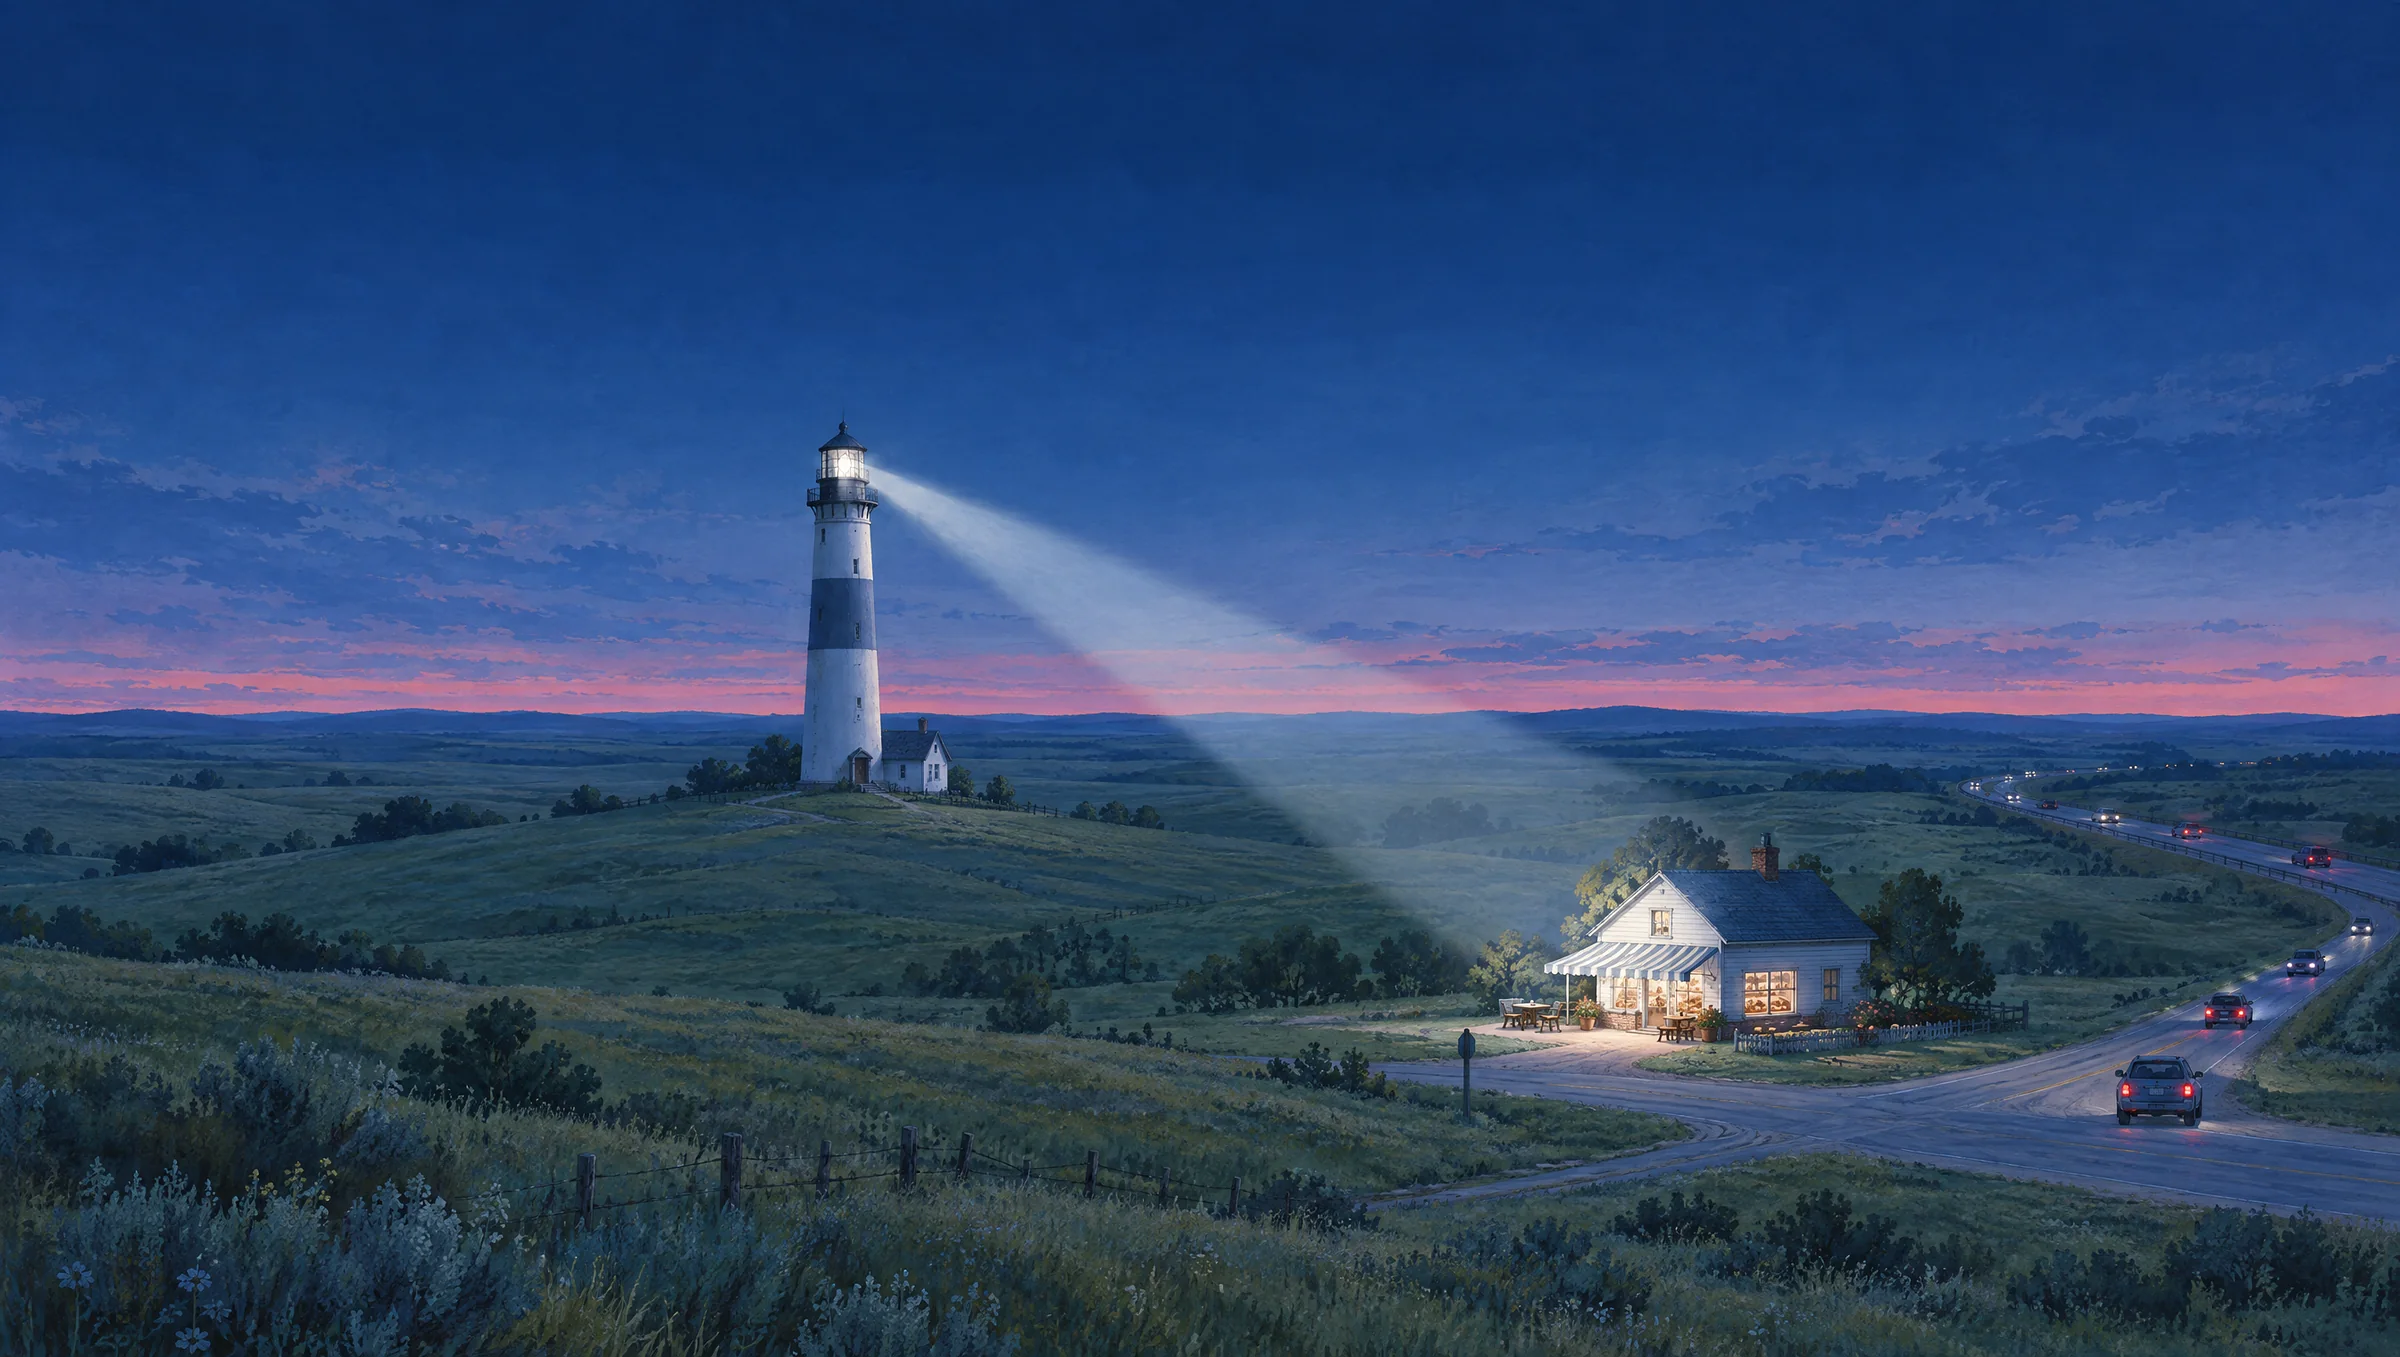
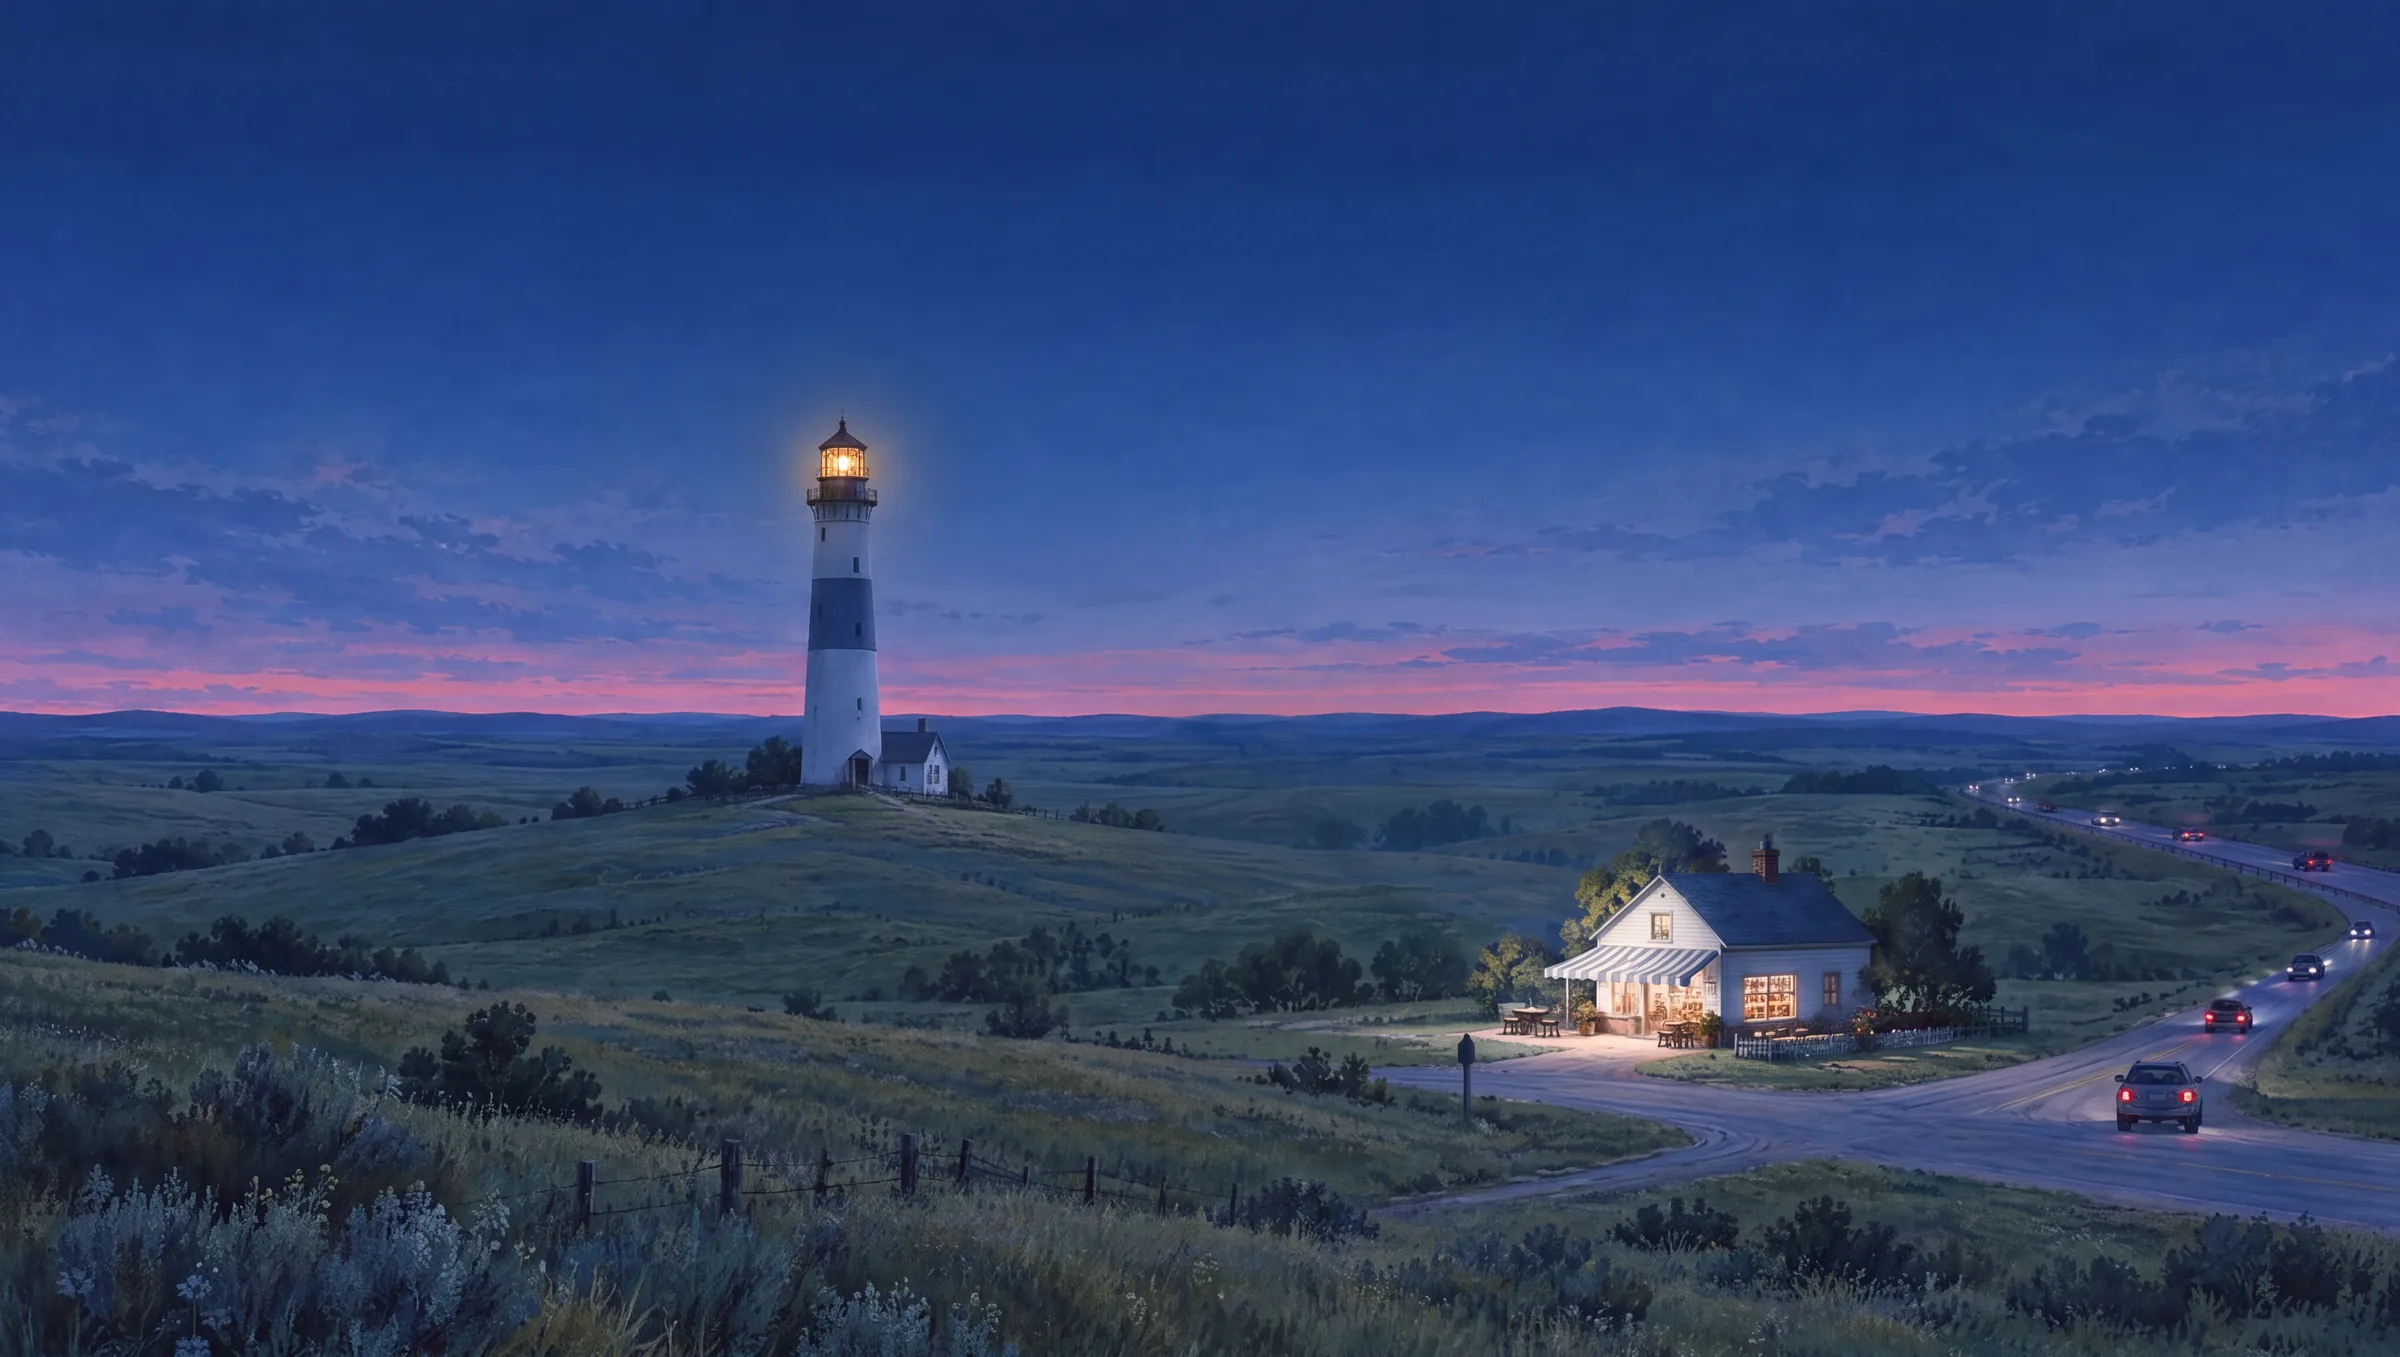
Echo hero: the lighthouse keeps turning
The painted beam is gone from the painting (Nano Banana Pro repaint); s/echo-beam.js draws
two back-to-back beams on a 14s turn: each sweeps the fields, swings toward you with a
flash at the lamp and floods the foreground, then fades behind the tower; each pass over
the shop washes its front bright. The free-audit page shares the painting, so it loads the
same script but holds one quiet still beam on the shop (lamp sits behind its checklist).
Reduced motion: the same still beam. Wired through products_v3_more.py extra_js.

diff --git a/s/echo-beam.js b/s/echo-beam.js
@@ -1,0 +1,130 @@
+/* Echo hero: the lighthouse keeps turning.
+   - Two beams back to back, like a real rotating lens seen from the side: each sweeps out across
+     the fields to the right, swings toward you (shortening, widening, flooding the foreground, a
+     flash at the lamp when it faces you), carries on to the left and fades behind the tower.
+     One turn every 14 seconds, so a beam comes round every 7.
+   - Where the beam meets the land it leaves a soft pool of light, and each time it passes the
+     shop the shop is found: its front washes bright for a moment.
+   - The painting has no beam of its own; these are the only ones. Positions are fractions of the
+     painting, mapped through object-fit:cover exactly as hero.js maps its glows.
+   Reduced motion, and the free-audit page: one still beam resting on the shop, as the old painting had it. */
+(function () {
+  var hero = document.querySelector(".phero");
+  var img = hero && hero.querySelector(".art img");
+  if (!img || !window.requestAnimationFrame) return;
+  var reduce = window.matchMedia && matchMedia("(prefers-reduced-motion: reduce)").matches;
+  // the free-audit page borrows this painting, but its lamp sits behind the checklist above the form:
+  // there the beam holds still, so nothing moves behind text people are reading
+  var quiet = hero.classList.contains("skin-hero");
+  if (quiet) reduce = true;
+
+  var LAMP = [.352, .338], SHOP = [.718, .676], HORIZON = .522, PERIOD = 14;
+  var parent = hero.querySelector(".hero-fx") || hero;
+  var cv = document.createElement("canvas");
+  cv.className = "beam"; cv.setAttribute("aria-hidden", "true");
+  cv.style.cssText = "position:absolute;inset:0;width:100%;height:100%;pointer-events:none;z-index:1";
+  parent.appendChild(cv);
+  var ctx = cv.getContext("2d");
+
+  var W = 0, H = 0, dpr = 1, dw = 1, dh = 1, ox = 0, oy = 0;
+  function layout() {
+    W = hero.clientWidth; H = hero.clientHeight;
+    dpr = Math.min(2, window.devicePixelRatio || 1);
+    cv.width = Math.round(W * dpr); cv.height = Math.round(H * dpr);
+    var nw = img.naturalWidth || 3840, nh = img.naturalHeight || 2171;
+    var s = Math.max(W / nw, H / nh); dw = nw * s; dh = nh * s;
+    var pos = getComputedStyle(img).objectPosition.split(" ");
+    var px = parseFloat(pos[0]) / 100, py = parseFloat(pos[1] || "50") / 100;
+    if (isNaN(px)) px = .5; if (isNaN(py)) py = .5;
+    ox = (W - dw) * px; oy = (H - dh) * py;
+    if (reduce) draw(.45, 0);
+  }
+  function X(f) { return ox + f * dw; }
+  function Y(f) { return oy + f * dh; }
+
+  // one soft cone from (x,y) to (ex,ey): root half-width r0, end half-width r1, alpha a at the lamp
+  function cone(x, y, ex, ey, r0, r1, a) {
+    var dx = ex - x, dy = ey - y, L = Math.hypot(dx, dy) || 1, nx = -dy / L, ny = dx / L;
+    var g = ctx.createLinearGradient(x, y, ex, ey);
+    g.addColorStop(0, "rgba(226,236,255," + a.toFixed(3) + ")");
+    g.addColorStop(.45, "rgba(214,228,255," + (a * .5).toFixed(3) + ")");
+    g.addColorStop(1, "rgba(206,222,255,0)");
+    ctx.fillStyle = g;
+    ctx.beginPath();
+    ctx.moveTo(x + nx * r0, y + ny * r0); ctx.lineTo(ex + nx * r1, ey + ny * r1);
+    ctx.lineTo(ex - nx * r1, ey - ny * r1); ctx.lineTo(x - nx * r0, y - ny * r0);
+    ctx.closePath(); ctx.fill();
+  }
+  function blob(x, y, rx, ry, rgb, a) {
+    if (a <= .003) return;
+    ctx.save(); ctx.translate(x, y); ctx.scale(1, ry / rx);
+    var g = ctx.createRadialGradient(0, 0, 0, 0, 0, rx);
+    g.addColorStop(0, "rgba(" + rgb + "," + a.toFixed(3) + ")");
+    g.addColorStop(.4, "rgba(" + rgb + "," + (a * .35).toFixed(3) + ")");
+    g.addColorStop(1, "rgba(" + rgb + ",0)");
+    ctx.fillStyle = g; ctx.beginPath(); ctx.arc(0, 0, rx, 0, 6.2832); ctx.fill(); ctx.restore();
+  }
+
+  var found = 0;
+  // one beam's geometry: far end on screen, strength, end width, and whether it is on the shop.
+  // Sideways it reaches across the fields; turned toward you it drops into the foreground;
+  // turned away it shrinks to almost nothing behind the lamp.
+  function beam(th, lx, ly) {
+    var c = Math.cos(th), s = Math.sin(th), front = Math.max(0, s);
+    var ex = lx + c * .52 * dw, ey = ly + (.15 + .23 * s) * dw;
+    var I = s >= 0 ? .55 + .45 * Math.pow(s, .8) : .55 * (1 + s * .85);
+    I *= .96 + .04 * Math.sin(th * 23); // a little haze shimmer
+    var r1 = (.042 + .07 * front) * dw;
+    var sx = X(SHOP[0]), sy = Y(SHOP[1]);
+    var aB = Math.atan2(ey - ly, ex - lx), aS = Math.atan2(sy - ly, sx - lx);
+    var lenB = Math.hypot(ex - lx, ey - ly), lenS = Math.hypot(sx - lx, sy - ly);
+    var half = Math.atan2(r1, lenB) * 1.15, d = Math.abs(Math.atan2(Math.sin(aB - aS), Math.cos(aB - aS)));
+    return { ex: ex, ey: ey, I: I, r1: r1, front: front, hit: d < half && lenB > lenS * .9 ? 1 - d / half : 0 };
+  }
+  function draw(th, dt) {
+    ctx.setTransform(dpr, 0, 0, dpr, 0, 0);
+    ctx.clearRect(0, 0, W, H);
+    ctx.globalCompositeOperation = "lighter";
+    var lx = X(LAMP[0]), ly = Y(LAMP[1]), hy = Y(HORIZON);
+    // two lenses back to back, like most real lights: one beam is always on its way round to you
+    var bs = [beam(th, lx, ly), beam(th + Math.PI, lx, ly)], hit = 0, f = 0;
+    bs.forEach(function (b) {
+      if (quiet) b.I *= .55;
+      cone(lx, ly, b.ex, b.ey, .007 * dw, b.r1, .3 * b.I);
+      cone(lx, ly, b.ex, b.ey, .004 * dw, b.r1 * .55, .34 * b.I);
+      cone(lx, ly, b.ex, b.ey, .002 * dw, b.r1 * .22, .4 * b.I);
+      if (b.ey > hy) blob(b.ex, b.ey, b.r1 * 1.5, b.r1 * .5, "214,228,255", .3 * b.I * Math.min(1, (b.ey - hy) / (.04 * dw)));
+      hit = Math.max(hit, b.hit); f = Math.max(f, Math.pow(b.front, 14));
+    });
+    // the shop is found when a beam passes over it
+    var sx = X(SHOP[0]), sy = Y(SHOP[1]);
+    found = dt ? found + (hit - found) * Math.min(1, dt * (hit > found ? 9 : 1.4)) : hit;
+    blob(sx, sy, .1 * dw, .06 * dw, "255,236,205", .55 * found);
+    blob(sx, sy + .012 * dw, .06 * dw, .022 * dw, "255,226,180", .4 * found);
+    // the lamp: always lit, and a flash when a beam faces you
+    if (quiet) { ctx.globalCompositeOperation = "source-over"; return; } // the painted lamp glows on its own
+    blob(lx, ly, .02 * dw, .02 * dw, "255,244,226", .8);
+    blob(lx, ly, (.05 + .18 * f) * dw, (.05 + .18 * f) * dw, "230,238,255", .16 + .6 * f);
+    if (f > .01) { ctx.fillStyle = "rgba(200,215,255," + (.08 * f).toFixed(3) + ")"; ctx.fillRect(0, 0, W, H); }
+    ctx.globalCompositeOperation = "source-over";
+  }
+
+  function start() {
+    layout();
+    window.addEventListener("resize", layout);
+    if (reduce) return;
+    var t0 = performance.now(), last = 0, visible = true, running = false;
+    function frame(now) {
+      if (!visible || document.hidden) { running = false; return; }
+      var dt = last ? Math.min(.05, (now - last) / 1000) : 0; last = now;
+      // starts just before the shop, so the first thing a visitor sees is the light finding it
+      draw(.2 + (now - t0) / 1000 / PERIOD * 6.2832, dt);
+      requestAnimationFrame(frame);
+    }
+    function go() { if (!running) { running = true; last = 0; requestAnimationFrame(frame); } }
+    if ("IntersectionObserver" in window) new IntersectionObserver(function (es) { visible = es[0].isIntersecting; if (visible) go(); }).observe(hero);
+    document.addEventListener("visibilitychange", function () { if (!document.hidden) go(); });
+    go();
+  }
+  if (img.complete && img.naturalWidth) start(); else img.addEventListener("load", start);
+})();

diff --git a/audit/index.html b/audit/index.html
@@ -177,6 +177,6 @@
 })();
 </script>
 <script>window.STATION_CATALOG=[{"k": "greet", "n": "Greet", "sub": "Website chat assistant", "pricelab": "$79 /mo", "ttl": "Live in minutes", "mo": 79, "once": 0, "link": "https://buy.stripe.com/5kQbIU1Gs6cpeIN5ZC2Fa0Z", "img": "/media/v5/greet.jpg", "price_id": "price_1TzVcd4Y7C8no2ikRlFIdU8q"}, {"k": "slate", "n": "Slate", "sub": "Booking calendar & reminders", "pricelab": "$59 /mo", "ttl": "Live today", "mo": 59, "once": 0, "link": "https://buy.stripe.com/8x25kw5WI0S5305ds42Fa1v", "img": "/media/v5/slate.jpg", "price_id": "price_1UGUkq4Y7C8no2ik33SCikR9"}, {"k": "lineback", "n": "Lineback", "sub": "Missed-call text-back", "pricelab": "$197 /mo", "ttl": "Live in ~2 business days", "mo": 197, "once": 0, "link": "https://buy.stripe.com/4gMcMYcl630d1W15ZC2Fa14", "img": "/media/v5/lineback.jpg", "price_id": "price_1TzVcf4Y7C8no2ikSQwPLLHG"}, {"k": "frontdesk", "n": "Frontdesk", "sub": "AI phone receptionist", "pricelab": "$397 /mo", "ttl": "Live same day", "mo": 397, "once": 0, "link": "https://buy.stripe.com/eVqeV6cl6cAN7glfAc2Fa16", "img": "/media/v5/frontdesk.jpg", "price_id": "price_1TzVcg4Y7C8no2iknK94keOq"}, {"k": "pursuit", "n": "Pursuit", "sub": "Automatic follow-up", "pricelab": "$247 /mo", "ttl": "Live instantly", "mo": 247, "once": 0, "link": "https://buy.stripe.com/3cI5kw70M1W96chfAc2Fa19", "img": "/media/v5/pursuit.jpg", "price_id": "price_1TzVci4Y7C8no2ikGmZ0IJA0"}, {"k": "repute", "n": "Repute", "sub": "Review engine", "pricelab": "$197 /mo", "ttl": "Live same day", "mo": 197, "once": 0, "link": "https://buy.stripe.com/fZufZa70M6cpeINds42Fa1b", "img": "/media/v5/repute.jpg", "price_id": "price_1TzVcj4Y7C8no2ikEe64LSwt"}, {"k": "map", "n": "Echo", "sub": "Google profile, managed", "pricelab": "$247 /mo", "ttl": "Live in 2\u20133 days", "mo": 247, "once": 0, "link": "", "img": "/media/v5/map.jpg", "price_id": "price_1UGUko4Y7C8no2ikuq62n9On"}, {"k": "dispatch", "n": "Dispatch", "sub": "Email campaigns", "pricelab": "$94 /mo", "ttl": "Live instantly", "mo": 94, "once": 0, "link": "https://buy.stripe.com/8x2fZabh20S54490Fi2Fa1d", "img": "/media/v5/dispatch.jpg", "price_id": "price_1TzVck4Y7C8no2ikU1Jq6hp3"}, {"k": "revive", "n": "Revive", "sub": "Win back old customers", "pricelab": "$197 /mo", "ttl": "Runs in 1\u20132 days", "mo": 197, "once": 0, "link": "", "img": "/media/v5/revive.jpg", "price_id": "price_1UMyIS4Y7C8no2ikuHC5vpTI"}, {"k": "radar", "n": "Radar", "sub": "Prospecting engine", "pricelab": "$297 /mo", "ttl": "Live same day", "mo": 297, "once": 0, "link": "https://buy.stripe.com/5kQ28kbh244hdEJbjW2Fa1r", "img": "/media/v5/radar.jpg", "price_id": "price_1UGUko4Y7C8no2ikwFny6WFb"}, {"k": "dial", "n": "Dial", "sub": "Business number & texting", "pricelab": "$47 /mo", "ttl": "Live in ~2 business days", "mo": 47, "once": 0, "link": "https://buy.stripe.com/28EeV65WI58ldEJ0Fi2Fa1h", "img": "/media/v5/dial.jpg", "price_id": "price_1TzVcn4Y7C8no2ikq0LlSCRA"}, {"k": "tap", "n": "Tap", "sub": "Payments & POS", "pricelab": "$47 /mo + card rates", "ttl": "Live in 1\u20132 days", "mo": 47, "once": 0, "link": "https://buy.stripe.com/4gMcMY1GsdER9otew82Fa1n", "img": "/media/v5/tap.jpg", "price_id": "price_1U2FsB4Y7C8no2ik5gbYBi8Q"}, {"k": "marquee", "n": "Marquee", "sub": "Social, ads & brand board", "pricelab": "$197 /mo", "ttl": "Live in 5\u20137 days", "mo": 197, "once": 0, "link": "https://buy.stripe.com/4gM00ceteeIVfMR3Ru2Fa1k", "img": "/media/v5/marquee.jpg", "price_id": "price_1TzVcp4Y7C8no2ikHA1mMp89"}];</script>
-<script src="/attribution.js" defer></script><script src="/analytics.js" defer></script><script src="/v5.js?v=20261019g" defer></script><script src="/cart-recovery.js?v=20260924" defer></script><script src="/quiz.js?v=20260924" defer></script><script src="/s/hero.js?v=20261019a"></script>
+<script src="/attribution.js" defer></script><script src="/analytics.js" defer></script><script src="/v5.js?v=20261019g" defer></script><script src="/cart-recovery.js?v=20260924" defer></script><script src="/quiz.js?v=20260924" defer></script><script src="/s/hero.js?v=20261019a"></script><script src="/s/echo-beam.js?v=20261021a"></script>
 <script>(function(){var n=document.querySelector('.nav');if(!n)return;function st(){n.classList.toggle('solid',window.scrollY>80)}var t=false;window.addEventListener('scroll',function(){if(t)return;t=true;requestAnimationFrame(function(){st();t=false})},{passive:true});st()})();</script>
 </body></html>

diff --git a/echo/index.html b/echo/index.html
@@ -385,5 +385,5 @@ body{background:var(--bg);color:var(--fg)}
   C.inputs.forEach(function(i){$(i.id).addEventListener('input',run)});run()}
 })();
 </script>
-
+<script src="/s/echo-beam.js?v=20261021a"></script>
 </body></html>
